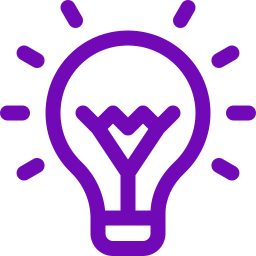
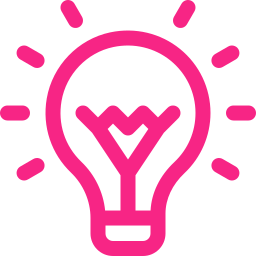
ajustada paleta de cores

diff --git a/stylesheets/home.css b/stylesheets/home.css
@@ -13,8 +13,7 @@
 .home__first-content{
     padding: 8rem 0;
     box-sizing: border-box;
-    border-bottom: var(--border) var(--purple);
-    background: linear-gradient(90deg, var(--flickr-pink), var(--byzantine));
+    background-color: var(--white);
 }
 
 .home__presentation{
@@ -25,7 +24,7 @@
 
 .home__title{
     font-size: 6rem;
-    color: var(--purple);
+    color: var(--black);
     font-family: var(--font-title);
     text-indent: -6px;
     margin-bottom: 16px;
@@ -36,7 +35,7 @@
     content: "";
     width: 100%;
     height: 12px;
-    background-color: #7209b7;
+    background-color: var(--pink);
     display: block;
     top: -4px;
     transform: skew(0, -1deg);
@@ -46,11 +45,11 @@
 
 .home__subject{
     font-size: 1.4rem;
-    color: var(--white);
+    color: var(--black);
 }
 
 .home__second-content{
-    background: linear-gradient(45deg, var(--dodger-blue) 32%, var(--trypan-blue) 100%);
+    background-color: var(--dark-grey);
 }
 
 .home__subtitle{
@@ -58,7 +57,8 @@
     font-family: var(--font-title);
     text-indent: -2px;
     color: var(--white);
-    margin-bottom: 8px;
+    margin-bottom: 12px;
+    font-weight: 600;
 }
 
 .home__word{
@@ -66,22 +66,24 @@
     color: var(--white);
 }
 
+.home__word--highlight{
+    font-weight: 600;
+}
+
 .home__results{
     display: flex;
     align-items: center;
-    justify-content: center;
     margin-top: 4rem;
-    padding: 2rem;
-    border: var(--border) var(--flickr-pink);
+    padding: 3rem;
     border-radius: 8px;
     box-sizing: border-box;
-    background: linear-gradient(65deg, transparent 80%, var(--flickr-pink) 94%);
+    background: linear-gradient(65deg, var(--white) 70%, var(--dark-grey) 80%);
 }
 
 .home__symbol{
     font-size: var(--icon-size);
     margin: 0 32px;
-    color: var(--white);
+    color: var(--black);
 }
 
 .home__img{

diff --git a/index.html b/index.html
@@ -46,7 +46,7 @@
                     <article class="container home__presentation">
                         <div>
                             <h1 class="home__title">FriendBot</h1>
-                            <p class="home__subject">Um projeto único, inovador e muito importante.</p>
+                            <p class="home__subject">Um projeto <strong class="home__word--highlight">único</strong>, <strong class="home__word--highlight">inovador</strong> e muito <strong class="home__word--highlight">importante</strong>.</p>
                         </div>
                         <img src="./imgs/innovation.webp" alt="Lâmpada referenciando a inovação">
                     </article>

diff --git a/stylesheets/variables.css b/stylesheets/variables.css
@@ -1,15 +1,7 @@
 :root{
-    --flickr-pink: #f72585;
-    --byzantine: #b5179e;
-    --purple: #7209b7;
-    --dark-purple: #560bad;
-    --trypan-purple: #480ca8;
-    --trypan-blue: #3a0ca3;
-    --persian-blue: #3f37c9;
-    --ultramarine-blue: #4361ee;
-    --dodger-blue: #4895ef;
-    --vivid-sky-blue: #4cc9f0;
+    --pink: #f72585;
     --grey: #5c5959;
+    --dark-grey: #292828;
     --black: #070607;
     --white: #f7f4f5;
     --border: 4px solid;

diff --git a/stylesheets/menu.css b/stylesheets/menu.css
@@ -1,6 +1,6 @@
 .menu{
     width: 100%;
-    background: linear-gradient(45deg, var(--persian-blue), var(--ultramarine-blue));
+    background-color: var(--black);
     box-shadow: 0 -8px 16px 2px var(--black);
     position: fixed;
     top: 0;
@@ -32,7 +32,7 @@
 }
 
 .menu__item--link .menu__link:hover, .menu .menu__item--link .menu__link:focus{
-    color: var(--flickr-pink);
+    color: var(--pink);
 }
 
 .menu__link-text{

diff --git a/stylesheets/styles.css b/stylesheets/styles.css
@@ -27,10 +27,10 @@
 }
 
 *::selection{
-    color: var(--purple);
-    background-color: var(--flickr-pink);
+    color: var(--pink);
+    background-color: var(--black);
 }
 
 *{
-    outline-color: var(--flickr-pink);
+    outline-color: var(--pink);
 }
